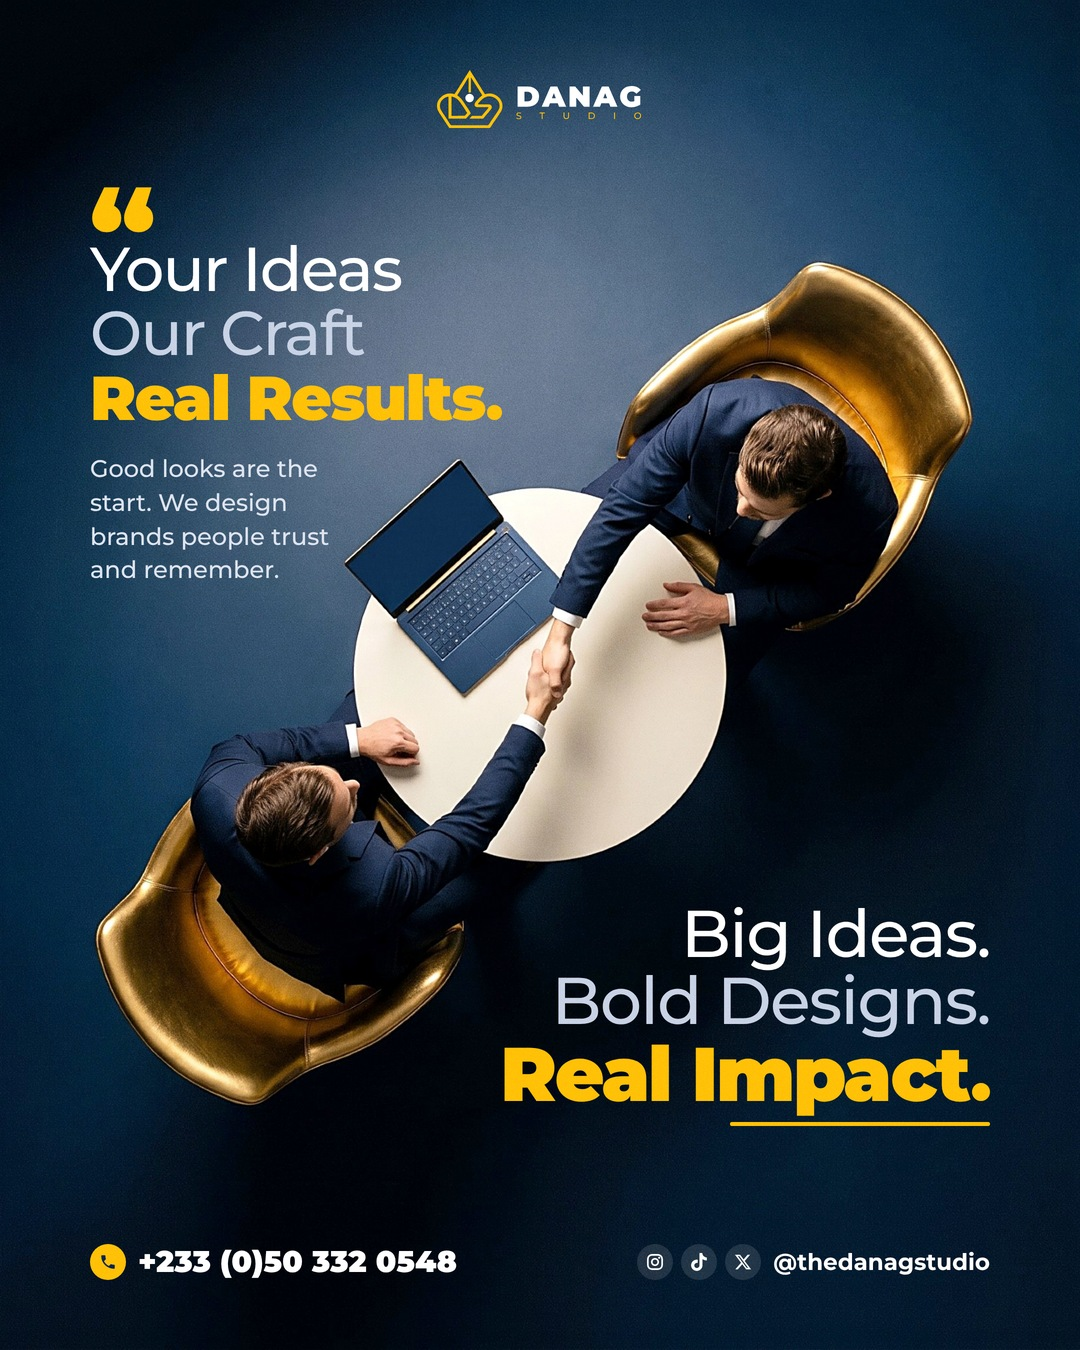
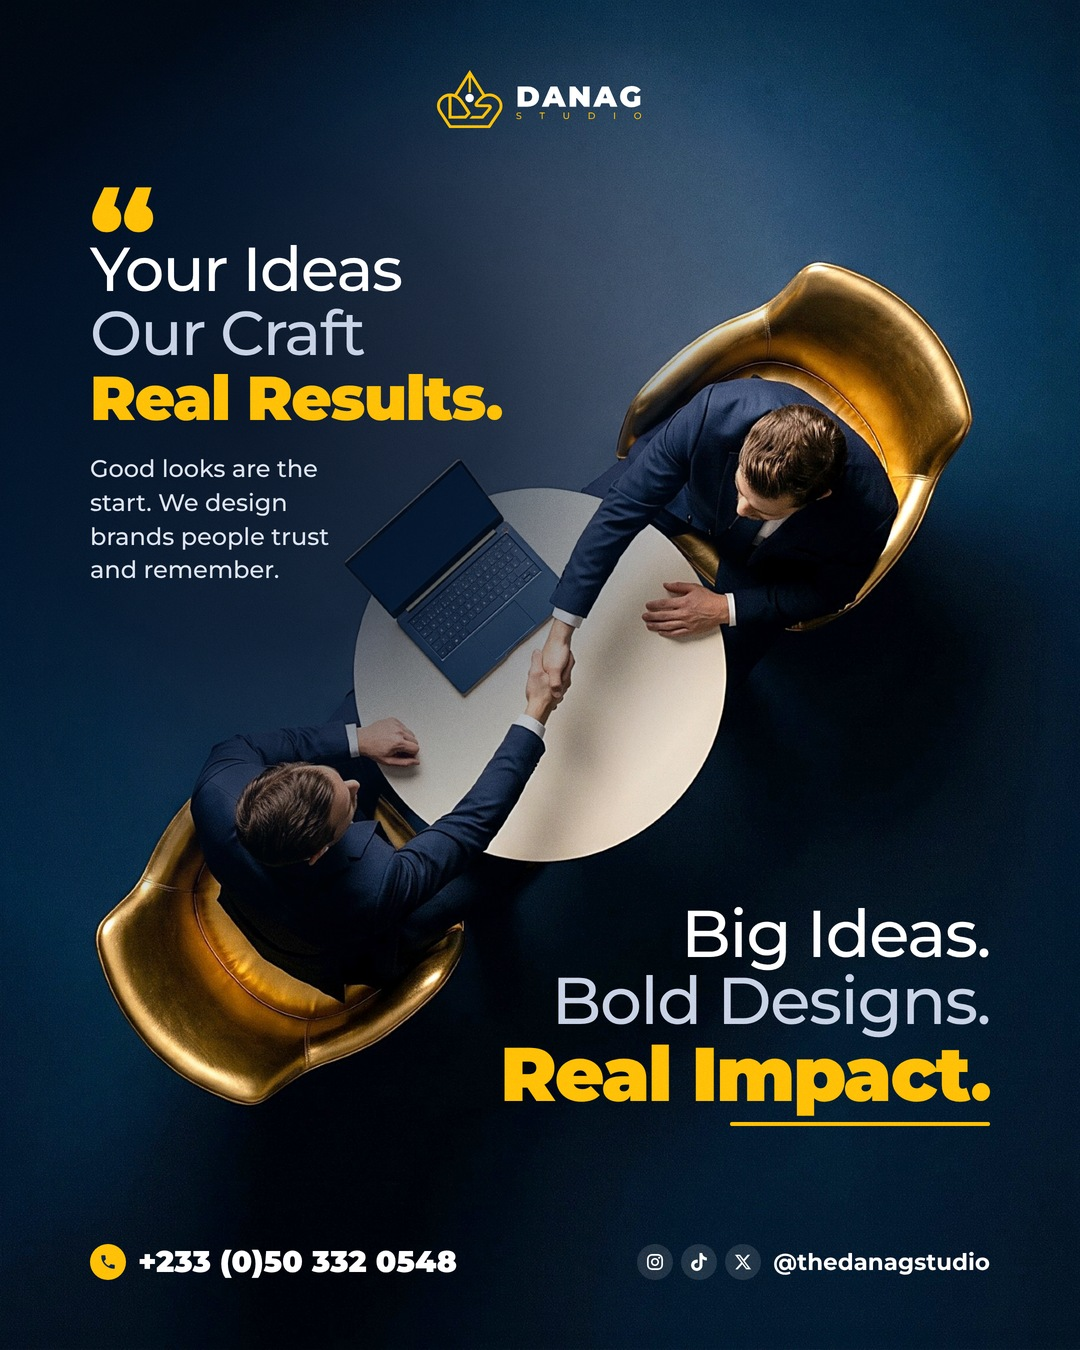
P11: deeper navy behind top-left text
Claude-Session: https://claude.ai/code/session_016a1VN4sEuNiBsko23wNLQZ

Changed region(s): [[0.0, 0.0622, 0.7028, 0.6844], [0.6722, 0.3422, 0.7028, 0.3733], [0.4583, 0.5911, 0.4889, 0.6222]]

diff --git a/promo/render_layouts.py b/promo/render_layouts.py
@@ -42,7 +42,7 @@ D['P10'] = photo('P10.jpg') + f'''
  <svg width="440" height="30" viewBox="0 0 440 30" style="display:block;margin:6px 0 0 360px"><path d="M6 18 C120 6 300 4 434 10 M60 26 C170 18 300 16 400 20" fill="none" stroke="{G}" stroke-width="5" stroke-linecap="round"/></svg></div>
 <div class="a" style="left:0;right:0;top:965px;text-align:center;font-weight:900;font-size:50px;line-height:1.02;color:#5a3d00;mix-blend-mode:multiply;text-shadow:0 1px 0 rgba(255,230,160,.6)">Your<br>Brand</div>
 <div class="a" style="left:0;right:0;bottom:56px;display:flex;justify-content:center"><div style="border:2px solid {G};background:rgba(255,193,7,.12);border-radius:40px;padding:14px 34px;font-weight:900;font-size:28px">Let's talk: <span style="color:{G}">+233 (0)50 332 0548</span></div></div>'''
-D['P11'] = photo('P11-sharp.jpg') + f'''
+D['P11'] = photo('P11-sharp.jpg') + '<div class="a" style="inset:0;background:radial-gradient(ellipse 52% 40% at 22% 30%,rgba(1,12,30,.88) 0%,rgba(1,14,34,.7) 45%,rgba(1,16,38,0) 100%)"></div>' + f'''
 <div class="a" style="left:0;right:0;top:70px;display:flex;justify-content:center">{logo(58)}</div>
 <div class="a" style="left:90px;top:175px;line-height:1.04">
  <div style="font-weight:900;font-size:110px;color:{G};height:62px;line-height:1">&ldquo;</div>
